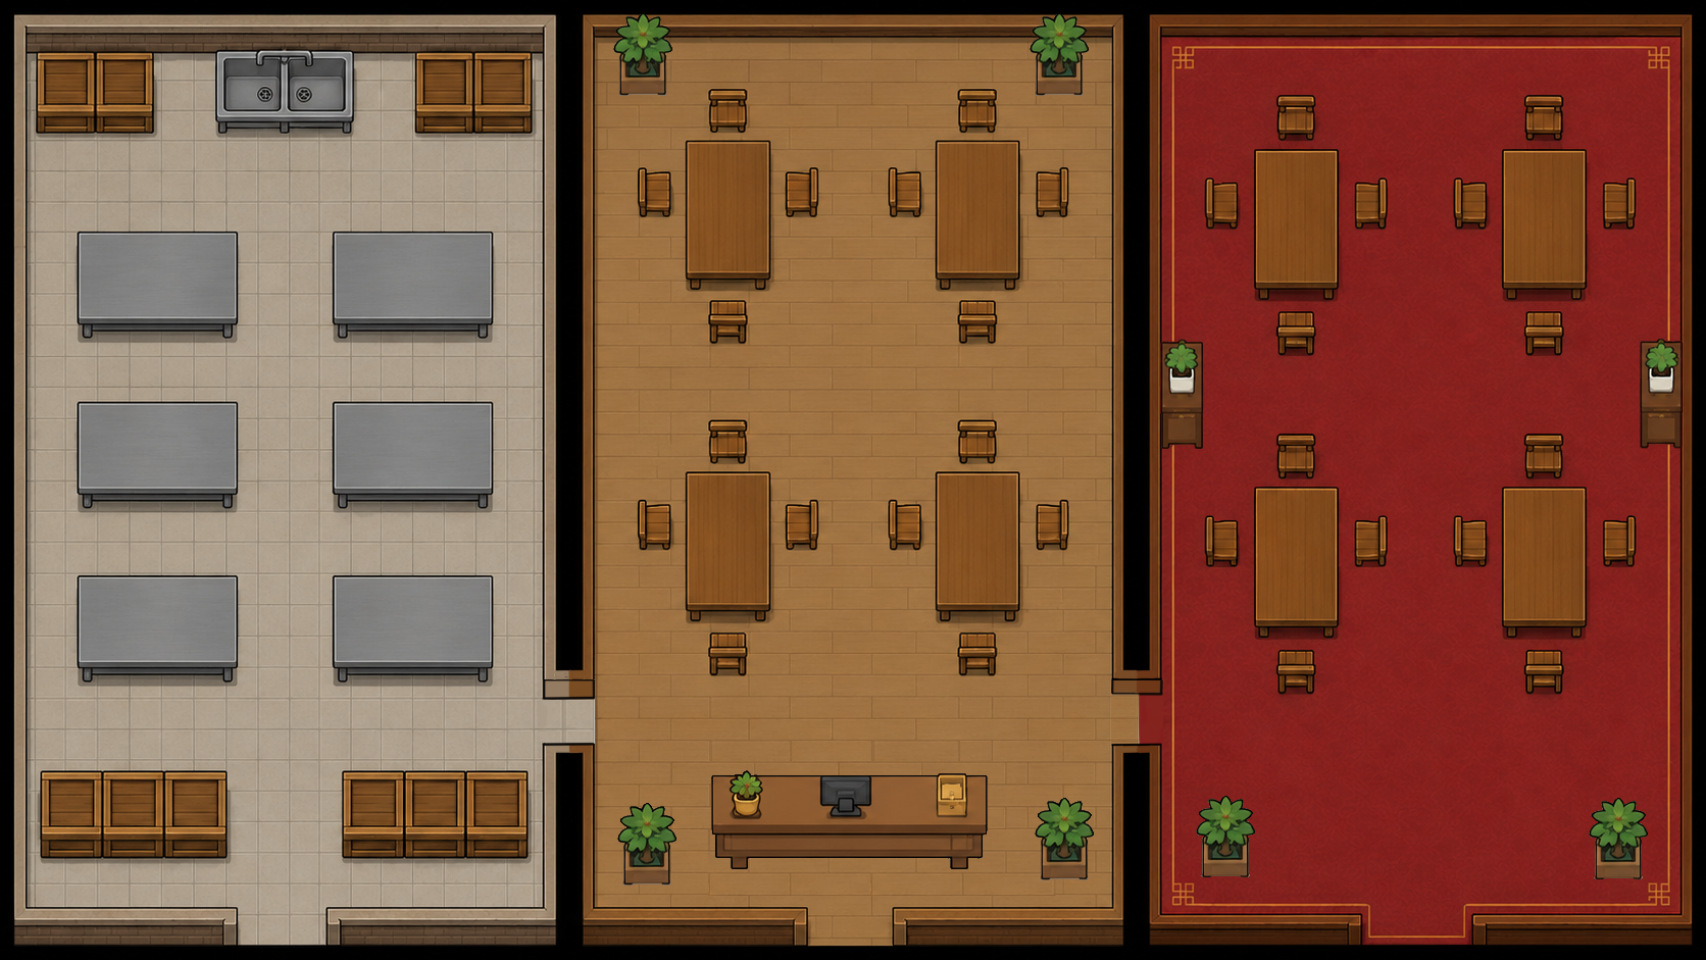
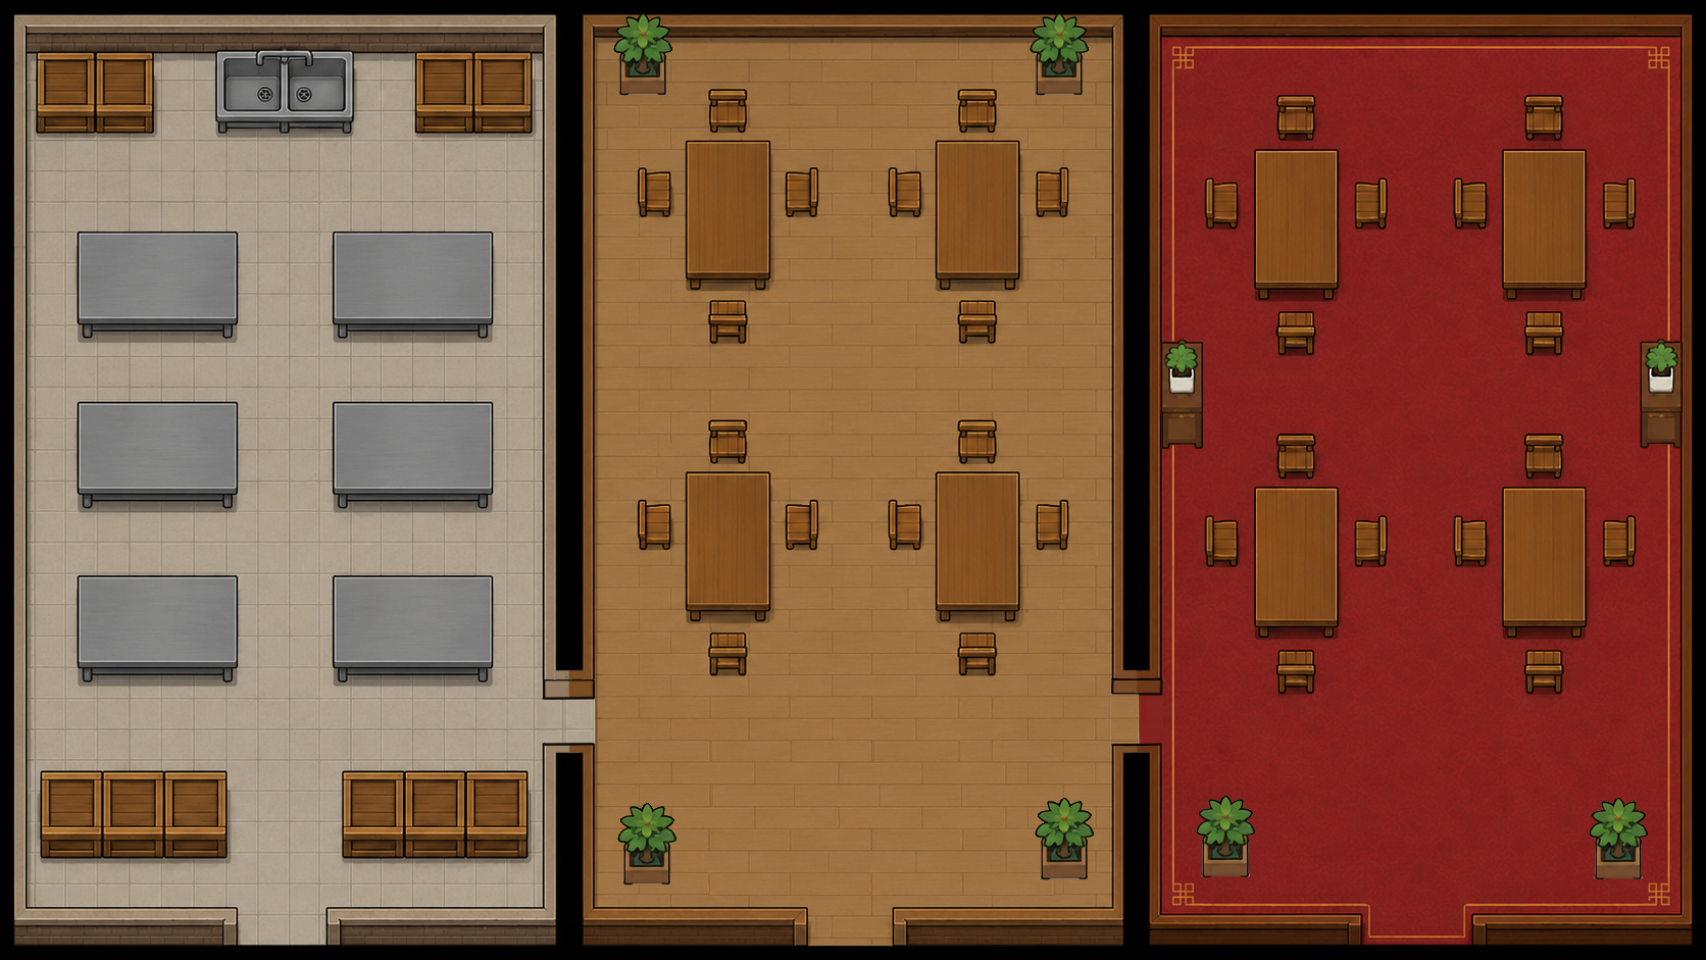
good

Changed region(s): [[0.4039, 0.7812, 0.5903, 0.9062]]

diff --git a/src/scenes/GameScene.js b/src/scenes/GameScene.js
@@ -4,6 +4,15 @@ class GameScene extends Phaser.Scene {
     }
 
     init() {
+
+        // TỌA ĐỘ ĐƯỜNG ĐI TRONG SẢNH (Waypoints)
+        // 1. Cánh cửa Sảnh Chính (Nơi khách xuất hiện khi bước từ ngoài vào)
+        this.doorInsideX = 810;  
+        this.doorInsideY = 900;  // Dưới cùng sảnh chính
+
+        // 2. Trục Hành Lang Giữa (Khách sẽ đi thẳng theo trục này để né bàn)
+        this.hallwayX = 810;
+
         // 1. DATA: KHO NGUYÊN LIỆU (BẾP)
         this.inventory = {
             chili: 5,     // Ớt (Nước cốt)
@@ -106,40 +115,39 @@ class GameScene extends Phaser.Scene {
         });
 
 
-        // =================================================================
+       // =================================================================
         // KHÔNG GIAN 2: NGOÀI TRỜI (Nằm tại X: 0->540, Y: -1500)
         // =================================================================
-        
         let outX = 270;
-        let outY = -1020; // Tâm màn hình của khu vực ngoài trời (-1500 + 480)
+        let outY = -1020; 
 
-        // Nền đường phố / Vỉa hè
-        this.add.image(outX, outY, 'white_box').setDisplaySize(540, 960).setTint(0x7f8c8d);
-        this.add.text(outX, outY - 400, "TRƯỚC CỬA QUÁN LẨU", { font: 'bold 30px Arial', fill: '#fff' }).setOrigin(0.5);
+        // Vẽ ảnh nền Ngoài trời (Thay cho white_box vỉa hè)
+        // Lưu ý: Cậu cần có tấm ảnh outdoor_bg dọc tỷ lệ 9:16 (540x960)
+        this.add.image(0, -1500, 'outdoor_bg').setOrigin(0, 0).setDisplaySize(540, 960).setDepth(0);
 
-        // ---> MÔ HÌNH NHÀ HÀNG THU NHỎ (Bấm vào để quay lại bên trong)
-        let miniRestaurant = this.add.image(outX - 120, outY - 150, 'white_box').setDisplaySize(200, 250).setTint(0xd35400).setInteractive({ useHandCursor: true });
-        this.add.text(outX - 120, outY - 150, "TIỆM LẨU\n(Bấm để vào)", { font: 'bold 20px Arial', fill: '#fff', align: 'center' }).setOrigin(0.5);
+        // MÔ HÌNH NHÀ HÀNG (Có gắn cửa để khách đi vào)
+        // Điểm này cực kỳ quan trọng: Đây là tọa độ Cánh Cửa bên Ngoài Trời
+        this.doorOutsideX = outX - 100;
+        this.doorOutsideY = outY - 50;
+        
+        let miniRestaurant = this.add.image(this.doorOutsideX, this.doorOutsideY, 'mini_hotpot')
+            .setDisplaySize(200, 200)
+            .setInteractive({ useHandCursor: true });
         
         miniRestaurant.on('pointerdown', () => {
-            // Teleport camera về lại Sảnh Chính bên trong
             this.cameras.main.scrollX = 540;
             this.cameras.main.scrollY = 0;
         });
 
-        // ---> CỬA HÀNG MUA NGUYÊN LIỆU (Nằm cạnh nhà hàng)
-        let supplyStore = this.add.image(outX + 130, outY - 150, 'white_box').setDisplaySize(180, 200).setTint(0x27ae60).setInteractive({ useHandCursor: true });
-        this.add.text(outX + 130, outY - 150, "🛒 SHOP\nNGUYÊN LIỆU", { font: 'bold 18px Arial', fill: '#fff', align: 'center' }).setOrigin(0.5);
+        // CỬA HÀNG MUA NGUYÊN LIỆU 
+        let supplyStore = this.add.image(outX + 130, outY - 50, 'mini_store')
+            .setDisplaySize(180, 180)
+            .setInteractive({ useHandCursor: true });
 
-      supplyStore.on('pointerdown', () => {
-            // Lấy tọa độ trung tâm của Camera hiện tại (Đang đứng ở đâu thì lấy ở đó)
+        supplyStore.on('pointerdown', () => {
             let currentCamX = this.cameras.main.scrollX + 270; 
             let currentCamY = this.cameras.main.scrollY + 480;
-            
-            // Dịch chuyển nguyên cái UI đến đập thẳng vào mặt người chơi
             this.shopUI.setPosition(currentCamX, currentCamY);
-            
-            // Bật lên
             this.shopUI.setVisible(true);
         });
 
@@ -192,6 +200,24 @@ class GameScene extends Phaser.Scene {
 
         // KHỞI TẠO GIAO DIỆN CỬA HÀNG (ẨN MẶC ĐỊNH)
         this.createShopUI();
+
+// ==========================================
+        // GIAI ĐOẠN 3: KHỞI TẠO MÁY TRẠNG THÁI KHÁCH HÀNG
+        // ==========================================
+        this.customers = []; // Mảng chứa tất cả khách đang có mặt
+        this.waitingQueue = []; // Mảng chứa khách đang đứng chờ ngoài trời
+
+        // Vị trí xếp hàng ngoài trời (Tọa độ X thay đổi dần để xếp hàng dọc)
+        this.queueStartX = 270; 
+        this.queueStartY = -840; 
+
+        // Khởi động Timer Đẻ Khách: Mỗi 5 - 8 giây đẻ 1 tốp khách (1 tốp = 1 Container hình người)
+        this.time.addEvent({
+            delay: 6000,
+            callback: this.spawnCustomer,
+            callbackScope: this,
+            loop: true
+        });
 
     }
 
@@ -326,6 +352,232 @@ class GameScene extends Phaser.Scene {
             this.cameras.main.shake(100, 0.005);
             console.log("Không đủ tiền!");
         }
+    }
+
+   spawnCustomer() {
+        if (this.waitingQueue.length >= 5) return;
+
+        // 1. CHỌN NGẪU NHIÊN BỘ ẢNH KHÁCH HÀNG
+        let custType = Phaser.Math.Between(1, 2) === 1 ? 'cust1' : 'cust2';
+        
+        // Mặc định đẻ ra là đứng nhìn xuống (_down)
+        let customer = this.add.sprite(this.queueStartX, this.queueStartY, `${custType}_down`)
+            .setDisplaySize(50, 80)
+            .setDepth(4000);
+        
+        customer.custType = custType; // Lưu lại bộ ảnh để đổi sau này
+        customer.state = 'SPAWN'; 
+        customer.assignedTableId = null; 
+        this.customers.push(customer);
+
+        let emptyTable = this.tables.find(t => t.status === 'EMPTY');
+
+        if (emptyTable) {
+            emptyTable.status = 'OCCUPIED';
+            customer.assignedTableId = emptyTable.id;
+            customer.state = 'WALKING_TO_TABLE';
+
+            // ==========================================
+            // KỊCH BẢN ĐI 4 BƯỚC CÓ ĐỔI HƯỚNG VÀ NGỒI
+            // ==========================================
+            
+            // BƯỚC 1: Xếp hàng xong rẽ phải đi đến cửa Ngoài trời
+            customer.setTexture(`${customer.custType}_side`); 
+            customer.setFlipX(false); // Mặt quay sang phải
+
+            this.tweens.add({
+                targets: customer,
+                x: this.doorOutsideX,
+                y: this.doorOutsideY,
+                duration: 1000,
+                ease: 'Linear',
+                onComplete: () => {
+                    // BƯỚC 2: Bước qua Cửa (Teleport vào trong)
+                    customer.setPosition(this.doorInsideX, this.doorInsideY);
+
+                    // BƯỚC 3: Đi thẳng dọc Hành lang giữa (Mặt hướng lên/xuống)
+                    customer.setTexture(`${customer.custType}_down`); 
+
+                    this.tweens.add({
+                        targets: customer,
+                        y: emptyTable.y + 40,
+                        duration: 1500,
+                        ease: 'Linear',
+                        onComplete: () => {
+                            // BƯỚC 4: Rẽ ngang vào bàn ăn
+                            customer.setTexture(`${customer.custType}_side`); 
+                            
+                            // Nếu bàn nằm bên TRÁI hành lang -> Lật mặt sang Trái
+                            if (emptyTable.x < this.hallwayX) {
+                                customer.setFlipX(true); 
+                            } else {
+                                customer.setFlipX(false); // Bàn bên Phải -> Quay sang Phải
+                            }
+
+                            this.tweens.add({
+                                targets: customer,
+                                x: emptyTable.x,
+                                duration: 800,
+                                ease: 'Linear',
+                                onComplete: () => {
+                                    // ==========================================
+                                    // BƯỚC 5: ĐÃ ĐẾN BÀN! CHUYỂN SANG ẢNH NGỒI
+                                    // ==========================================
+                                    customer.setTexture(`${customer.custType}_sit`);
+                                    
+                                    // Lật lại ảnh gốc vì mặt ghế xoay cố định
+                                    customer.setFlipX(false); 
+                                    
+                                    // Nâng khách lên một chút cho khớp với mặt ghế (Tùy chỉnh Y)
+                                    customer.y -= 15; 
+                                    
+                                    customer.state = 'SIT_ORDERING'; 
+                                    this.showOrderBubble(customer); 
+                                }
+                            });
+                        }
+                    });
+                }
+            });
+
+        } else {
+            // HẾT BÀN: Cho vào mảng Đợi và xếp hàng ngoài trời
+            customer.setTexture(`${customer.custType}_down`); // Đứng xếp hàng nhìn xuống
+            customer.state = 'WAITING_OUTSIDE';
+            this.waitingQueue.push(customer);
+            this.updateQueuePositions(); 
+        }
+    }
+
+    showOrderBubble(customer) {
+        // Bảng Menu (Theo GDD)
+        let menu = [
+            { id: 'spicy', name: '🌶️ Lẩu Cay', price: 60, req: { chili: 1, beef: 2, veggies: 1 } },
+            { id: 'herbal', name: '🌿 Lẩu Nấm', price: 40, req: { herbs: 1, veggies: 2 } },
+            { id: 'seafood', name: '🍤 Lẩu Hải Sản', price: 110, req: { bone: 1, seafood: 2, veggies: 1 } }
+        ];
+
+        // Khách chọn ngẫu nhiên 1 món
+        let chosenDish = Phaser.Utils.Array.GetRandom(menu);
+        customer.order = chosenDish;
+
+        // Vẽ Bong Bóng chat hiện lên đầu khách
+        customer.bubbleBg = this.add.rectangle(customer.x, customer.y - 50, 100, 30, 0xffffff).setStrokeStyle(2, 0x000).setDepth(4001);
+        customer.bubbleTxt = this.add.text(customer.x, customer.y - 50, chosenDish.name, { font: 'bold 12px Arial', fill: '#000' }).setOrigin(0.5).setDepth(4002);
+
+        // Chuyển trạng thái sang Đang Chờ Phục Vụ
+        customer.state = 'WAITING_FOR_FOOD';
+
+        // Đẩy yêu cầu món ăn này vào Hàng Đợi (Job Queue) để Tí nữa Nhân Viên Bếp nấu! (Sẽ làm ở GĐ 4)
+        // Hiện tại tạm thời tự động phục vụ sau 3 giây để test loop Khách Hàng.
+        this.time.delayedCall(3000, () => {
+            this.serveFoodToCustomer(customer);
+        });
+    }
+
+    serveFoodToCustomer(customer) {
+        // Đồ ăn ra: Ẩn bong bóng gọi món
+        if (customer.bubbleBg) {
+            customer.bubbleBg.destroy();
+            customer.bubbleTxt.destroy();
+        }
+
+        // Đổi màu khách sang Xanh Lá (Biểu hiện đang ăn vui vẻ)
+        
+        customer.state = 'EATING';
+
+        // TẠO HOẠT ẢNH NHAI ĐỒ ĂN (Dập dềnh lên xuống)
+        let eatTween = this.tweens.add({
+            targets: customer,
+            angle: 3,           // Nghiêng nhẹ sang phải 3 độ
+            y: customer.y - 2,  // Hơi nhổm người lên 2 pixel
+            yoyo: true,         // Quay lại vị trí 0
+            repeat: -1,         // Lặp liên tục
+            duration: 350,      // Nhịp nhai 350ms
+            ease: 'Sine.easeInOut' // Chuyển động mượt mà
+        });
+
+        
+            // Ăn xong ngừng dập dềnh
+
+
+        // Khách ngồi ăn 5 giây (Tăng tốc để test, thực tế GDD là 15s)
+        this.time.delayedCall(5000, () => {
+             eatTween.stop();
+              customer.setAngle(0);
+            // 1. ĂN XONG TRẢ TIỀN! (Bàn VIP x2 tiền)
+            let table = this.tables.find(t => t.id === customer.assignedTableId);
+            let finalPrice = table.isVip ? customer.order.price * 2 : customer.order.price;
+            
+            this.gold += finalPrice;
+            localStorage.setItem('hotpot_gold', this.gold.toString());
+            this.goldText.setText(`🪙 ${this.gold}`);
+
+            // Bay chữ Tiền Vàng
+            let moneyTxt = this.add.text(customer.x, customer.y - 40, `+${finalPrice} Vàng`, { font: 'bold 18px Arial', fill: '#ffd700', stroke: '#000', strokeThickness: 3 }).setOrigin(0.5).setDepth(5000);
+            this.tweens.add({ targets: moneyTxt, y: moneyTxt.y - 50, alpha: 0, duration: 1500, onComplete: () => moneyTxt.destroy() });
+
+            // 2. GIẢI PHÓNG BÀN & THU HỒI KHÁCH
+            table.status = 'EMPTY'; // Bàn trống rồi, khách mới có thể vào!
+            
+            // Xóa khách này khỏi mảng
+            this.customers = this.customers.filter(c => c !== customer);
+            customer.destroy();
+
+           // 3. GỌI KHÁCH TIẾP THEO Ở NGOÀI TRỜI VÀO
+            if (this.waitingQueue.length > 0) {
+                let nextCustomer = this.waitingQueue.shift(); 
+                this.updateQueuePositions(); 
+                
+                table.status = 'OCCUPIED';
+                nextCustomer.assignedTableId = table.id;
+                nextCustomer.state = 'WALKING_TO_TABLE';
+
+                // KỊCH BẢN ĐI 4 BƯỚC (Dành cho người đứng chờ)
+                this.tweens.add({
+                    targets: nextCustomer,
+                    x: this.doorOutsideX, // Bước 1: Đi từ chỗ xếp hàng tới Cửa ngoài
+                    y: this.doorOutsideY,
+                    duration: 1000,
+                    ease: 'Linear',
+                    onComplete: () => {
+                        nextCustomer.setPosition(this.doorInsideX, this.doorInsideY); // Bước 2: Teleport vào trong
+                        this.tweens.add({
+                            targets: nextCustomer,
+                            y: table.y + 40, // Bước 3: Đi dọc hành lang giữa
+                            duration: 1500,
+                            ease: 'Linear',
+                            onComplete: () => {
+                                this.tweens.add({
+                                    targets: nextCustomer,
+                                    x: table.x, // Bước 4: Rẽ vào bàn
+                                    duration: 800,
+                                    ease: 'Linear',
+                                    onComplete: () => {
+                                        nextCustomer.state = 'SIT_ORDERING';
+                                        this.showOrderBubble(nextCustomer);
+                                    }
+                                });
+                            }
+                        });
+                    }
+                });
+            }
+        });
+    }
+
+    updateQueuePositions() {
+        // Xếp các khách đang đợi thành hàng ngũ ngoài đường
+        this.waitingQueue.forEach((cust, index) => {
+            let targetX = this.queueStartX + (index * 45) - 90; // Dàn hàng ngang ra
+            this.tweens.add({
+                targets: cust,
+                x: targetX,
+                y: this.queueStartY,
+                duration: 500,
+                ease: 'Power1'
+            });
+        });
     }
 
 }

diff --git a/src/scenes/BootScene.js b/src/scenes/BootScene.js
@@ -12,7 +12,24 @@ class BootScene extends Phaser.Scene {
 
         this.load.setPath('assets/images/');
         this.load.image('hotpot_bg', 'hotpot_bg.png');
+
+        // TẢI ẢNH KHÁCH HÀNG VÀ NGOÀI TRỜI
+        // TẢI BỘ ẢNH KHÁCH HÀNG 1
+        this.load.image('cust1_down', 'cust1_down.png'); 
+        this.load.image('cust1_side', 'cust1_side.png'); 
+        this.load.image('cust1_sit', 'cust1_sit.png'); 
         
+        // TẢI BỘ ẢNH KHÁCH HÀNG 2
+        this.load.image('cust2_down', 'cust2_down.png'); 
+        this.load.image('cust2_side', 'cust2_side.png'); 
+        this.load.image('cust2_sit', 'cust2_sit.png');
+        
+        this.load.image('outdoor_bg', 'outdoor_bg.png'); // Ảnh nền Mặt Tiền Quán
+        
+        // Cửa hàng nguyên liệu và Tiệm lẩu mini
+        this.load.image('mini_store', 'mini_store.png'); 
+        this.load.image('mini_hotpot', 'mini_hotpot.png');
+
     }
 
     create() {